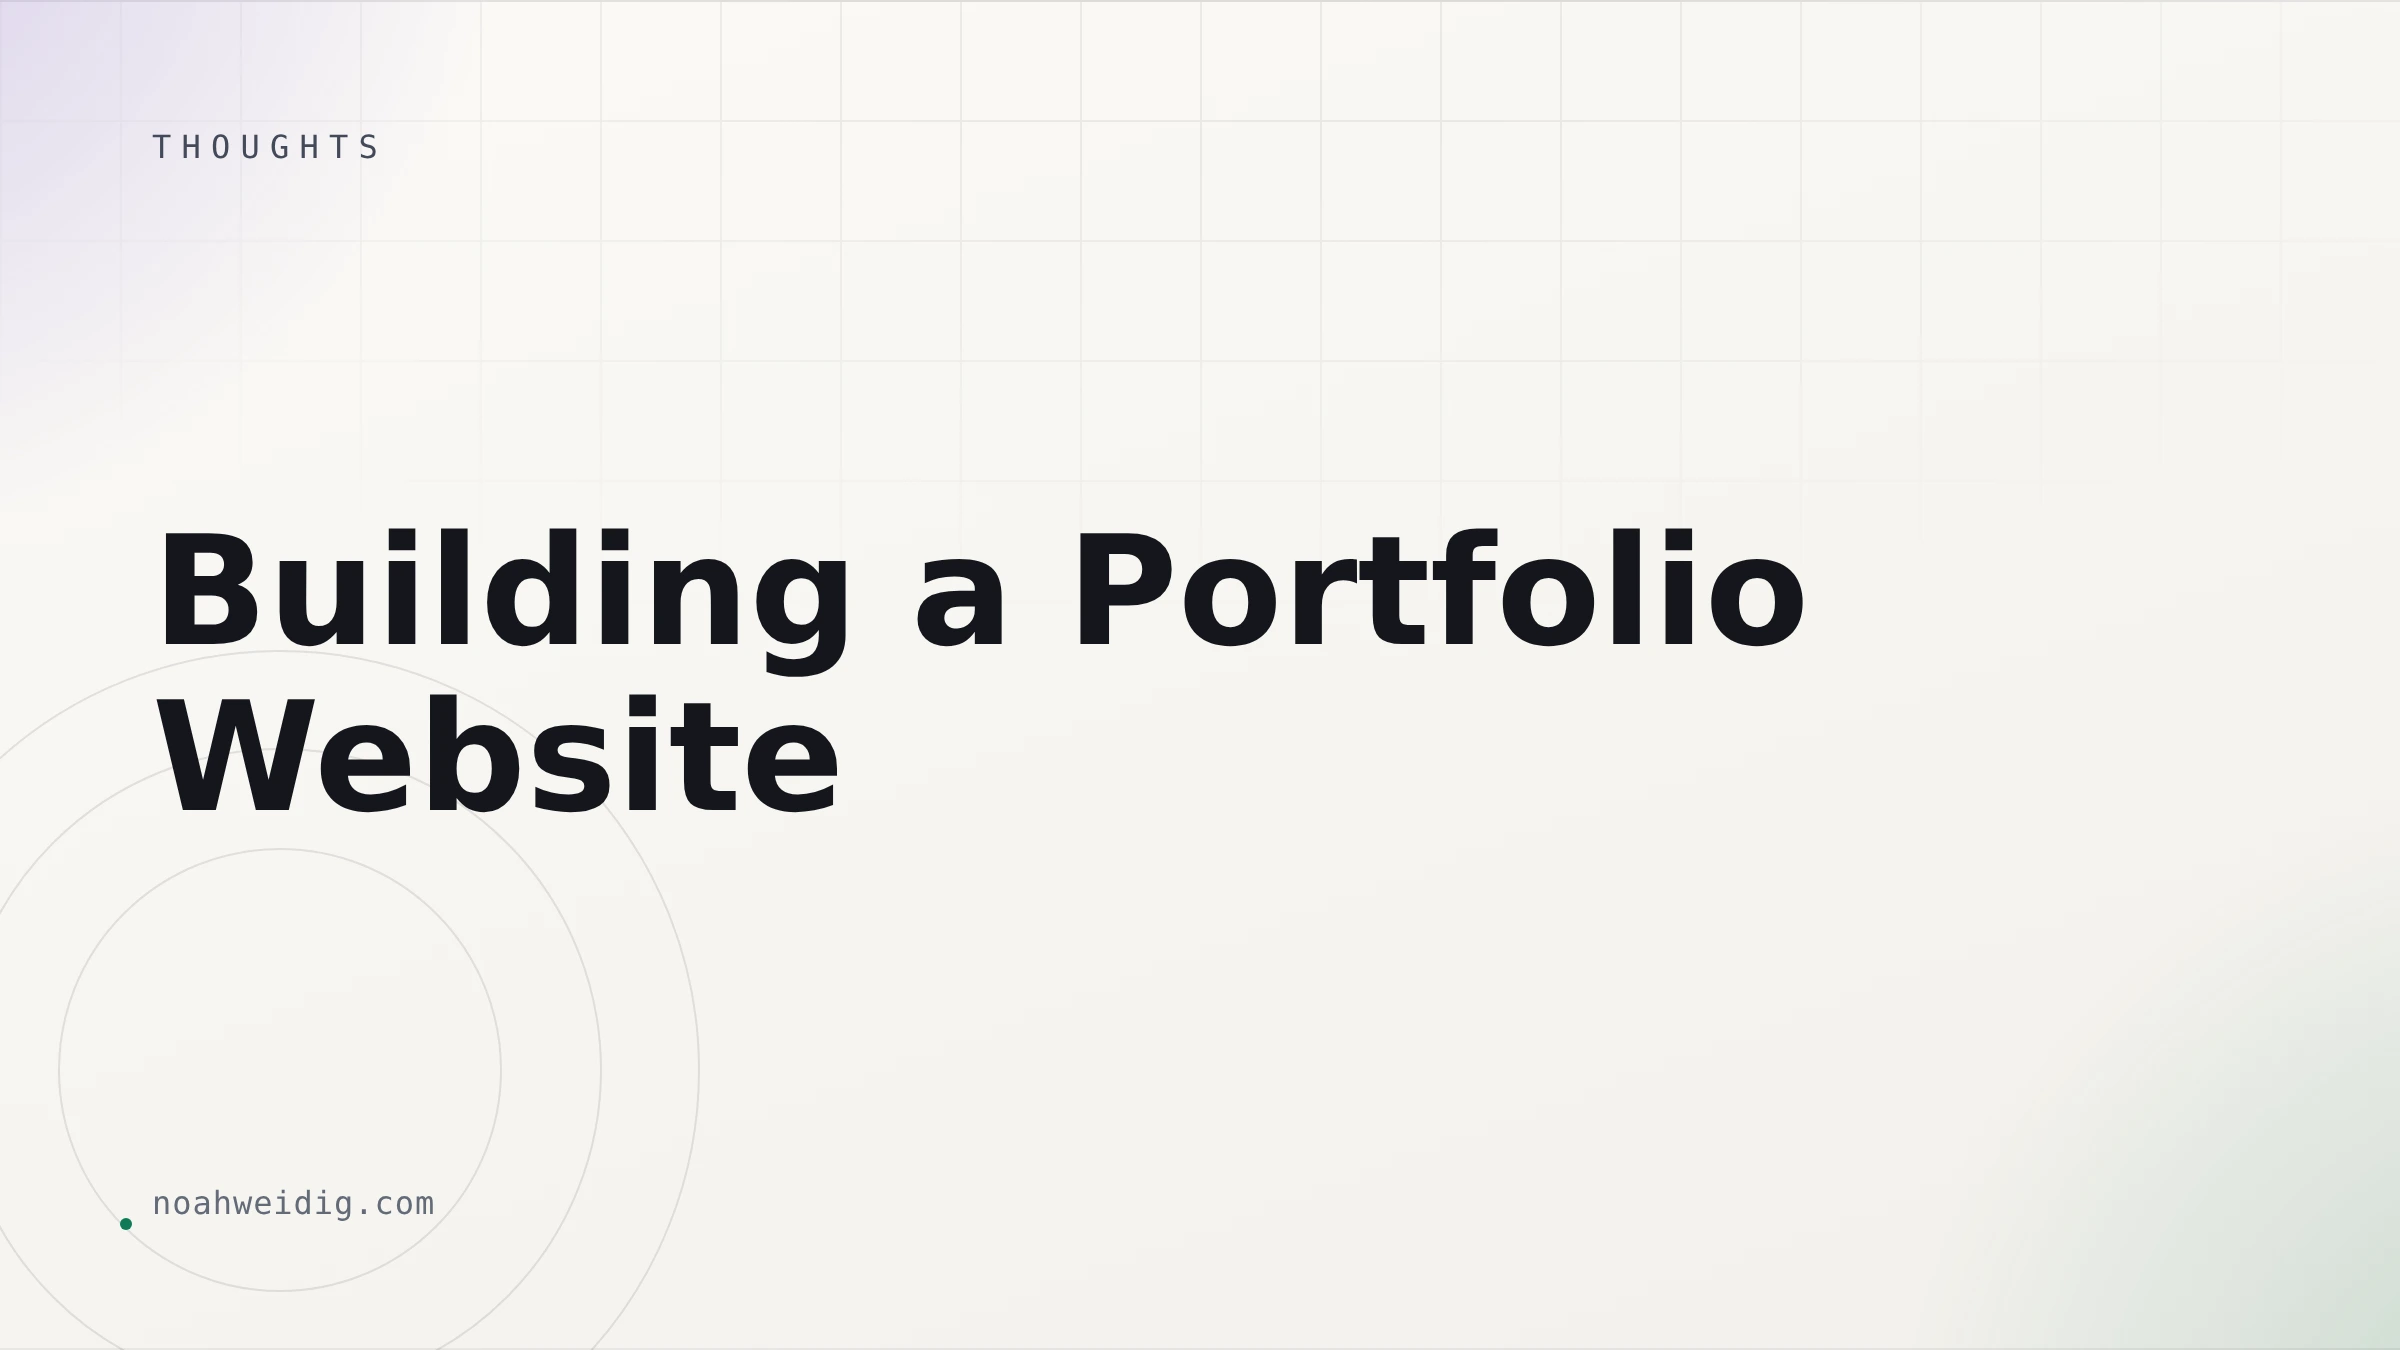
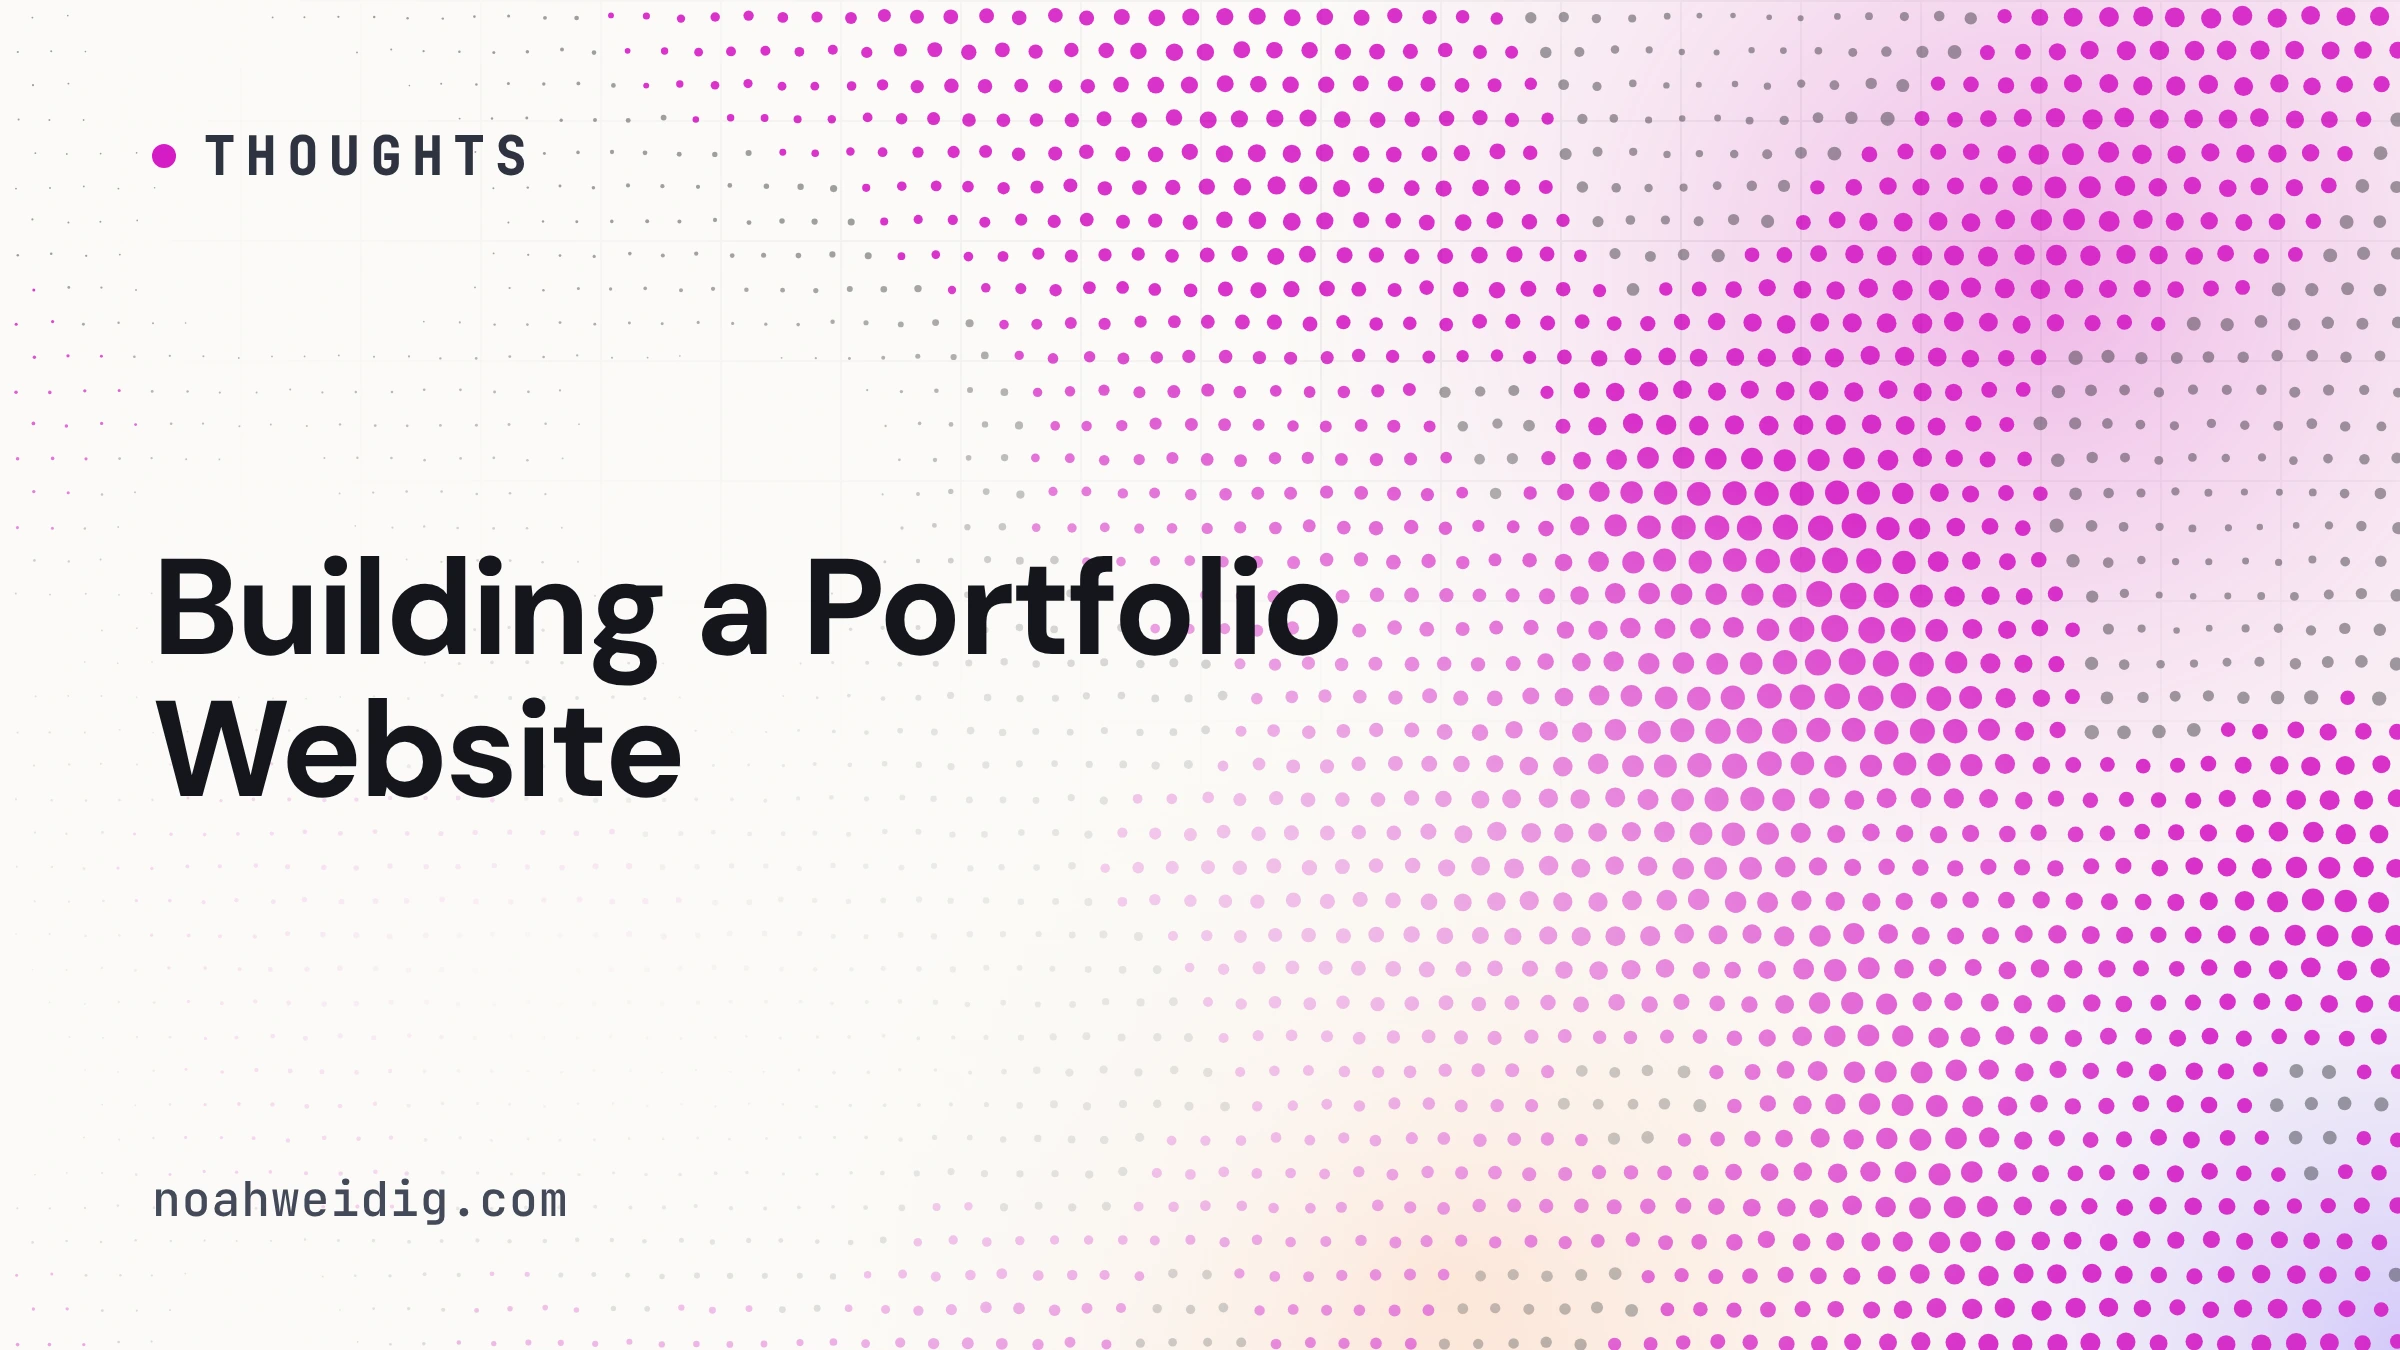
Redesign blog covers as seeded halftone dot fields
Each post gets its own palette and a slug-seeded dot layout, larger
kicker/domain text, and no tick marks. Cover rendering now loads from a
file:// page so the self-hosted fonts apply.

Claude-Session: https://claude.ai/code/session_011DGkZt44tYbjrqJZfMf7ha

diff --git a/src/content/blog/astro-portfolio/index.md b/src/content/blog/astro-portfolio/index.md
@@ -7,7 +7,7 @@ categories:
   - Data Science
 image: './cover.webp'
 image-light: './cover-light.webp'
-image-alt: "Cover card reading “Building a Portfolio Website” over the site's violet and moss gradient"
+image-alt: "Cover card reading “Building a Portfolio Website” over a halftone dot pattern in magenta and ember"
 ---
 
 I've been through many iterations of a personal website and learned many lessons along the way. I spent a lot of time thinking about how to create a visually appealing website that balanced speed with interactivity and a high degree of customization. Here's the (messy) journey.

diff --git a/src/content/blog/favorite-r-packages/index.md b/src/content/blog/favorite-r-packages/index.md
@@ -9,7 +9,7 @@ categories:
 draft: false
 image: './cover.webp'
 image-light: './cover-light.webp'
-image-alt: "Cover card reading “My Favorite R Packages” over the site's accent and ember gradient"
+image-alt: "Cover card reading “My Favorite R Packages” over a halftone dot pattern in violet and cyan"
 ---
 
 These are the R packages I install on a fresh machine before anything else.

diff --git a/src/content/blog/welcome/index.md b/src/content/blog/welcome/index.md
@@ -6,7 +6,7 @@ categories:
   - Thoughts
 image: './cover.webp'
 image-light: './cover-light.webp'
-image-alt: "Cover card reading “Welcome to My Blog” over the site's accent and violet gradient"
+image-alt: "Cover card reading “Welcome to My Blog” over a halftone dot pattern in lime and teal"
 ---
 
 ## Welcome

diff --git a/src/content/blog/focus/index.md b/src/content/blog/focus/index.md
@@ -7,7 +7,7 @@ categories:
 draft: false
 image: './cover.webp'
 image-light: './cover-light.webp'
-image-alt: "Cover card reading “Focus” over the site's violet and moss gradient"
+image-alt: "Cover card reading “Focus” over a halftone dot pattern in amber and ember"
 ---
 
 ## The problem
